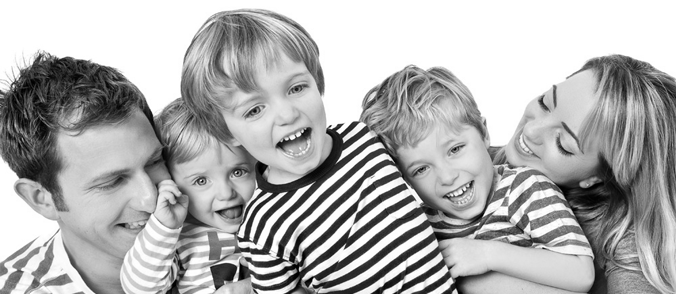
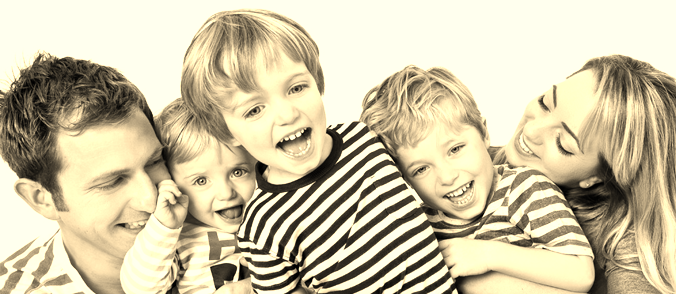
post office hours edits

diff --git a/IOhandler.js b/IOhandler.js
@@ -39,7 +39,8 @@ const readDir = async (dir) => {
   const filenames = await fs.promises.readdir(dir, "utf8");
   const pngPaths = [];
   for (const file of filenames) {
-    if (file.endsWith(".png")) {
+    // TODO
+    if (path.extname(file) === ".png") {
       pngPaths.push(`unzipped/${file}`);
     }
   }
@@ -73,35 +74,37 @@ const invert = async (rVal, gVal, bVal) => {
  * @return {promise}
  */
 const filter = (pathIn, pathOut, filterType) => {
-  fs.createReadStream(pathIn)
-    .pipe(
-      new PNG({
-        filterType: 4,
-      })
-    )
-    .on("parsed", async function () {
-      for (var y = 0; y < this.height; y++) {
-        for (var x = 0; x < this.width; x++) {
-          var idx = (this.width * y + x) << 2;
+  return new Promise((resolve, reject) => {
+    fs.createReadStream(pathIn)
+      // .on("error", reject)
+      .pipe(
+        new PNG({
+          filterType: 4,
+        })
+      )
+      .on("parsed", async function () {
+        for (let y = 0; y < this.height; y++) {
+          for (let x = 0; x < this.width; x++) {
+            let idx = (this.width * y + x) << 2;
 
-          // TODO: put in helper function that you can pass a filter to eg. grayScale
-          // average color
-          let rgbVals;
-          if (filterType.toLowerCase() === "grayscale") {
-            rgbVals = await grayScale(this.data[idx], this.data[idx + 1], this.data[idx + 2]);
-          } else if (filterType.toLowerCase() === "sepia") {
-            rgbVals = await sepia(this.data[idx], this.data[idx + 1], this.data[idx + 2]);
-          } else if (filterType.toLowerCase() === "invert") {
-            rgbVals = await invert(this.data[idx], this.data[idx + 1], this.data[idx + 2]);
+            // TODO: put in helper function that you can pass a filter to eg. grayScale
+            // average color
+            let rgbVals;
+            if (filterType.toLowerCase() === "grayscale") {
+              rgbVals = await grayScale(this.data[idx], this.data[idx + 1], this.data[idx + 2]);
+            } else if (filterType.toLowerCase() === "sepia") {
+              rgbVals = await sepia(this.data[idx], this.data[idx + 1], this.data[idx + 2]);
+            } else if (filterType.toLowerCase() === "invert") {
+              rgbVals = await invert(this.data[idx], this.data[idx + 1], this.data[idx + 2]);
+            }
+            this.data[idx] = rgbVals[0];
+            this.data[idx + 1] = rgbVals[1];
+            this.data[idx + 2] = rgbVals[2];
           }
-          this.data[idx] = rgbVals[0];
-          this.data[idx + 1] = rgbVals[1];
-          this.data[idx + 2] = rgbVals[2];
         }
-      }
-
-      this.pack().pipe(fs.createWriteStream(pathOut));
-    });
+        this.pack().pipe(fs.createWriteStream(pathOut)).on("finish", resolve);
+      });
+  })
 };
 
 module.exports = {

diff --git a/main.js b/main.js
@@ -1,18 +1,25 @@
-const path = require("path");
 const readlineSync = require("readline-sync");
 const IOhandler = require("./IOhandler");
+const { pathUnzipped } = require("./constants")
 // const zipFilePath = path.join(__dirname, "myfile.zip");
 // const pathUnzipped = path.join(__dirname, "unzipped");
 // const pathProcessed = path.join(__dirname, "grayscaled");
 
 async function main() {
-    await IOhandler.unzip("myfile", "unzipped");
-    const paths = await IOhandler.readDir("unzipped");
-    // console.log(paths);
-    const filterType = readlineSync.question("Pick a filter (grayscale, sepia, invert): ");
-    for (const path of paths) {
-        // /${path.slice(9)}
-        IOhandler.filter(path, `filtered/${path.slice(9)}`, filterType);
+    try {
+        await IOhandler.unzip("myfile", pathUnzipped);
+        const paths = await IOhandler.readDir(pathUnzipped);
+        const promArr = [];
+        // console.log(paths);
+        const filterType = readlineSync.question("Pick a filter (grayscale, sepia, invert): ");
+        for (const path of paths) {
+            // /${path.slice(9)}
+            promArr.push(IOhandler.filter(path, `filtered/${path.slice(9)}`, filterType));
+        }
+        await Promise.all(promArr);
+        console.log("All images filtered");
+    } catch (error) {
+        console.error(error);
     }
 }
 

diff --git a/constants.js b/constants.js
@@ -1,0 +1,5 @@
+const path = require("path");
+const pathUnzipped = path.join(__dirname, "unzipped");
+module.exports = {
+    pathUnzipped
+}
